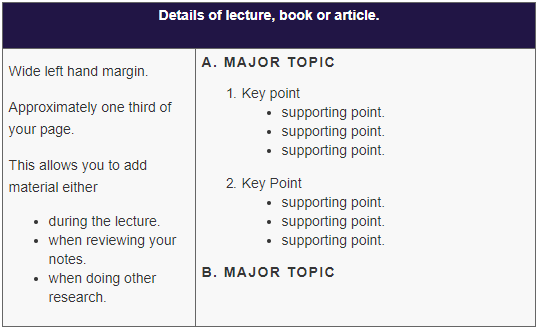
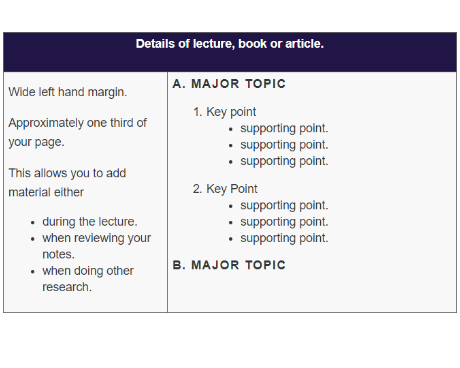
Fixed image resizing issue

Changed region(s): [[0.0, 0.0, 1.0, 1.0]]

diff --git a/Prac 4/Cam/card.html b/Prac 4/Cam/card.html
@@ -12,55 +12,36 @@
     <section class=note_layout>
 
       <article class="note_card">
-        <a href="#">
-          <picture class="note_image">
-            <img src="images/linear_note.PNG" alt="3 Column Approach Example" />
-          </picture>
           <div class="note_content">
+            <img class="note_image" src="images/linear_note.PNG" alt="3 Column Approach Example" />
+          <div class="note_main">
             <hr>
             <h2>Linear Notes</h2>
             <p>Taking notes in a linear or sequential fashion is probably the most common way of laying out your notes. A wide left-hand margin is used so that you can add material to your notes at a later date.</p>
           </div>
-        </a>
-      </article>
-
-      <article class="note_card">
-        <a href="#">
-          <picture class="note_image">
-            <img src="images/mind-map.gif" alt="3 Column Approach Example" />
-          </picture>
-          <div class="note_content">
-            <hr>
-            <h2>Mind Maps</h2>
-            <p>Mind maps are extremely useful ways of organising ideas. However, you are restricted to using key words. This requires you to be concise but it can be difficult if there is a large bulk of information and it cannot easily be condensed.</p>
+            <div class="note_footer">
+              <hr>
+              <button class="button_primary">Read More</button>
+              <button class="button_primary">View Example</button>
+            </div>
           </div>
-        </a>
       </article>
 
+
       <article class="note_card">
-        <a href="#">
-          <picture class="note_image">
-            <img src="images/networks.gif" alt="3 Column Approach Example" />
-          </picture>
-          <div class="note_content">
+        <div class="note_content">
+          <img class="note_image" src="images/networks.gif" alt="3 Column Approach Example" />
+          <div class="note_main">
             <hr>
             <h2>Networks</h2>
             <p>This basically makes use of a slash pattern to organise ideas. It is especially useful if you are trying to map out the ideas in a debate or controversy. It enable opposing ideas to be mapped e.g. pros/cons, costs/benefits, advantages/disadvantages, and so on.</p>
           </div>
-        </a>
-      </article>
-
-      <article class="note_card">
-        <a href="#">
-          <picture class="note_image">
-            <img src="images/herringbone.gif" alt="3 Column Approach Example" />
-          </picture>
-          <div class="note_content">
-            <hr>
-            <h2>Herringbone Technique</h2>
-            <p>The herringbone technique, so-named because it resembles a fish skeleton, is useful for analysing a single idea. You ask of the main idea Who?, What?, When?, Where?, Why?, and How? In so doing you are able to represent the key idea and aspects of its supporting data.</p>
+            <div class="note_footer">
+              <hr>
+              <button class="button_primary">Read More</button>
+              <button class="button_primary">View Example</button>
+            </div>
           </div>
-        </a>
       </article>
 
     </section>

diff --git a/Prac 4/Cam/style.css b/Prac 4/Cam/style.css
@@ -34,10 +34,10 @@
 	font-weight: bold;
 }
 
-.note_image img {
+img.note_image {
 	display: block;
 	width: 100%;
-	height: 17em;
+	height: auto;
 }
 
 /* Styles from Main*/
@@ -55,11 +55,32 @@ h1, h2, h3, h4, h5, h6 {
 
 h2, h4 {
 	font-weight: normal;
-  color: #FB3640;
+  color: #B0030B;
 }
 
 a {
 	color: #247BA0;
+}
+
+/* Buttons */
+
+button {
+	border: none;
+	color: white;
+	padding: 0.5em;
+	text-align: center;
+	display: inline-block;
+	font-size: 1em;
+	margin: 0.2em;
+	cursor: pointer;
+}
+
+.button_primary {
+	background-color: #0A2463;
+}
+
+.button_primary:hover {
+	background-color: #247BA0;
 }
 
 /* Media Queries */
@@ -67,6 +88,10 @@ a {
 @media (min-width: 40em) {
     .note_card {
        max-width: 44%;
+    }
+
+    .note_main {
+      height: 17em;
     }
 }
 
